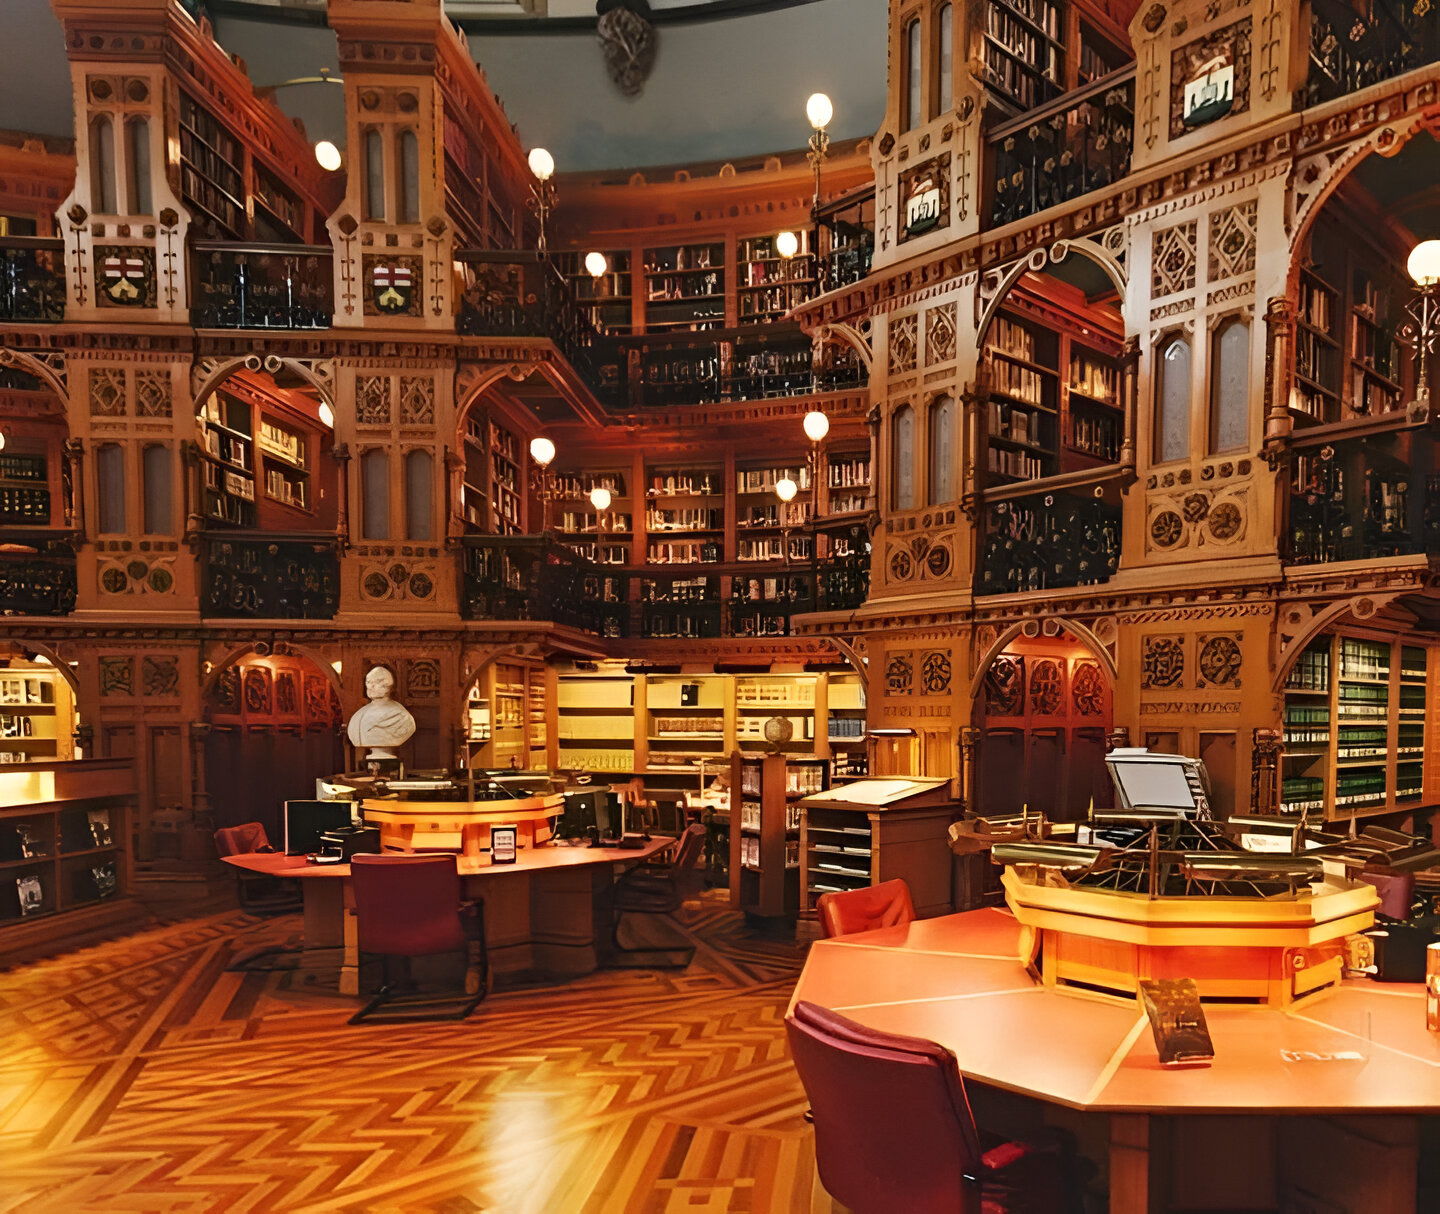
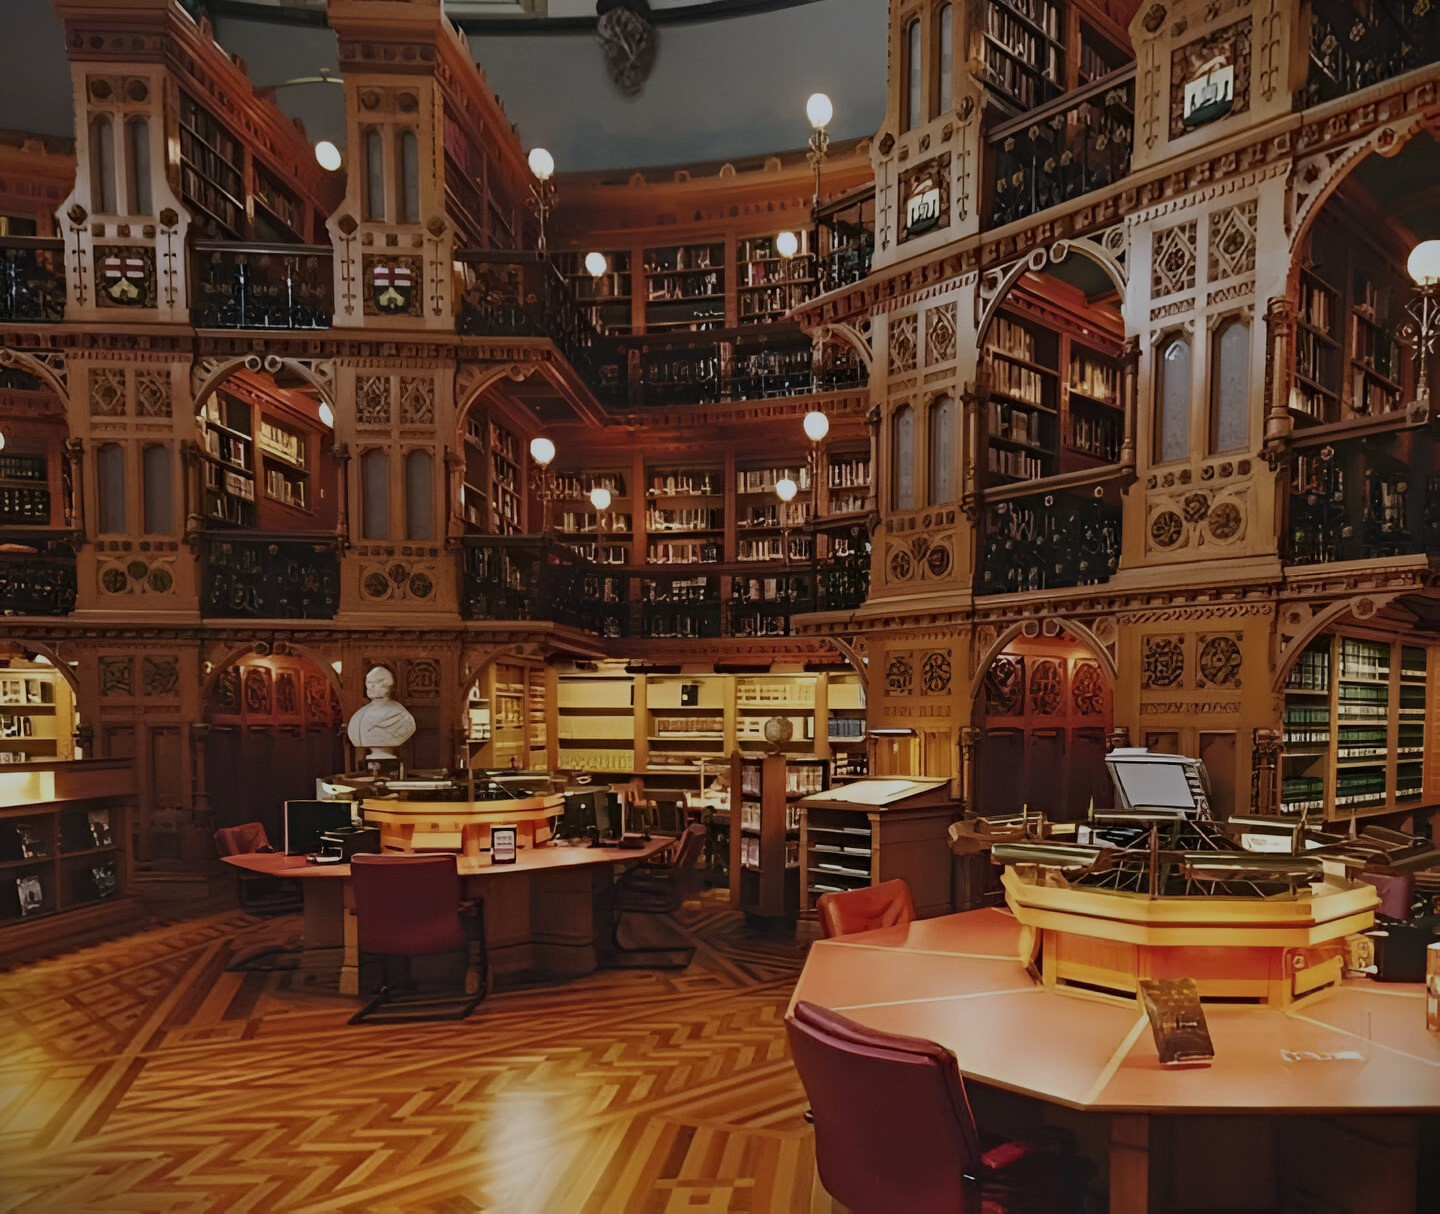
Atualizando o script para o mais recente; Arrumando estilização; Escurecendo imagem

diff --git a/web/estilo/index.css b/web/estilo/index.css
@@ -7,9 +7,13 @@ body{
     background-color: #1e2d4a;
     display: flex;
     background-image: url("../imagens/bibli.jpeg");
-     
     
 }
+
+label {
+    color: white;
+}
+
 .img-banner{
     width: 1000%;
     height: 100vh;
